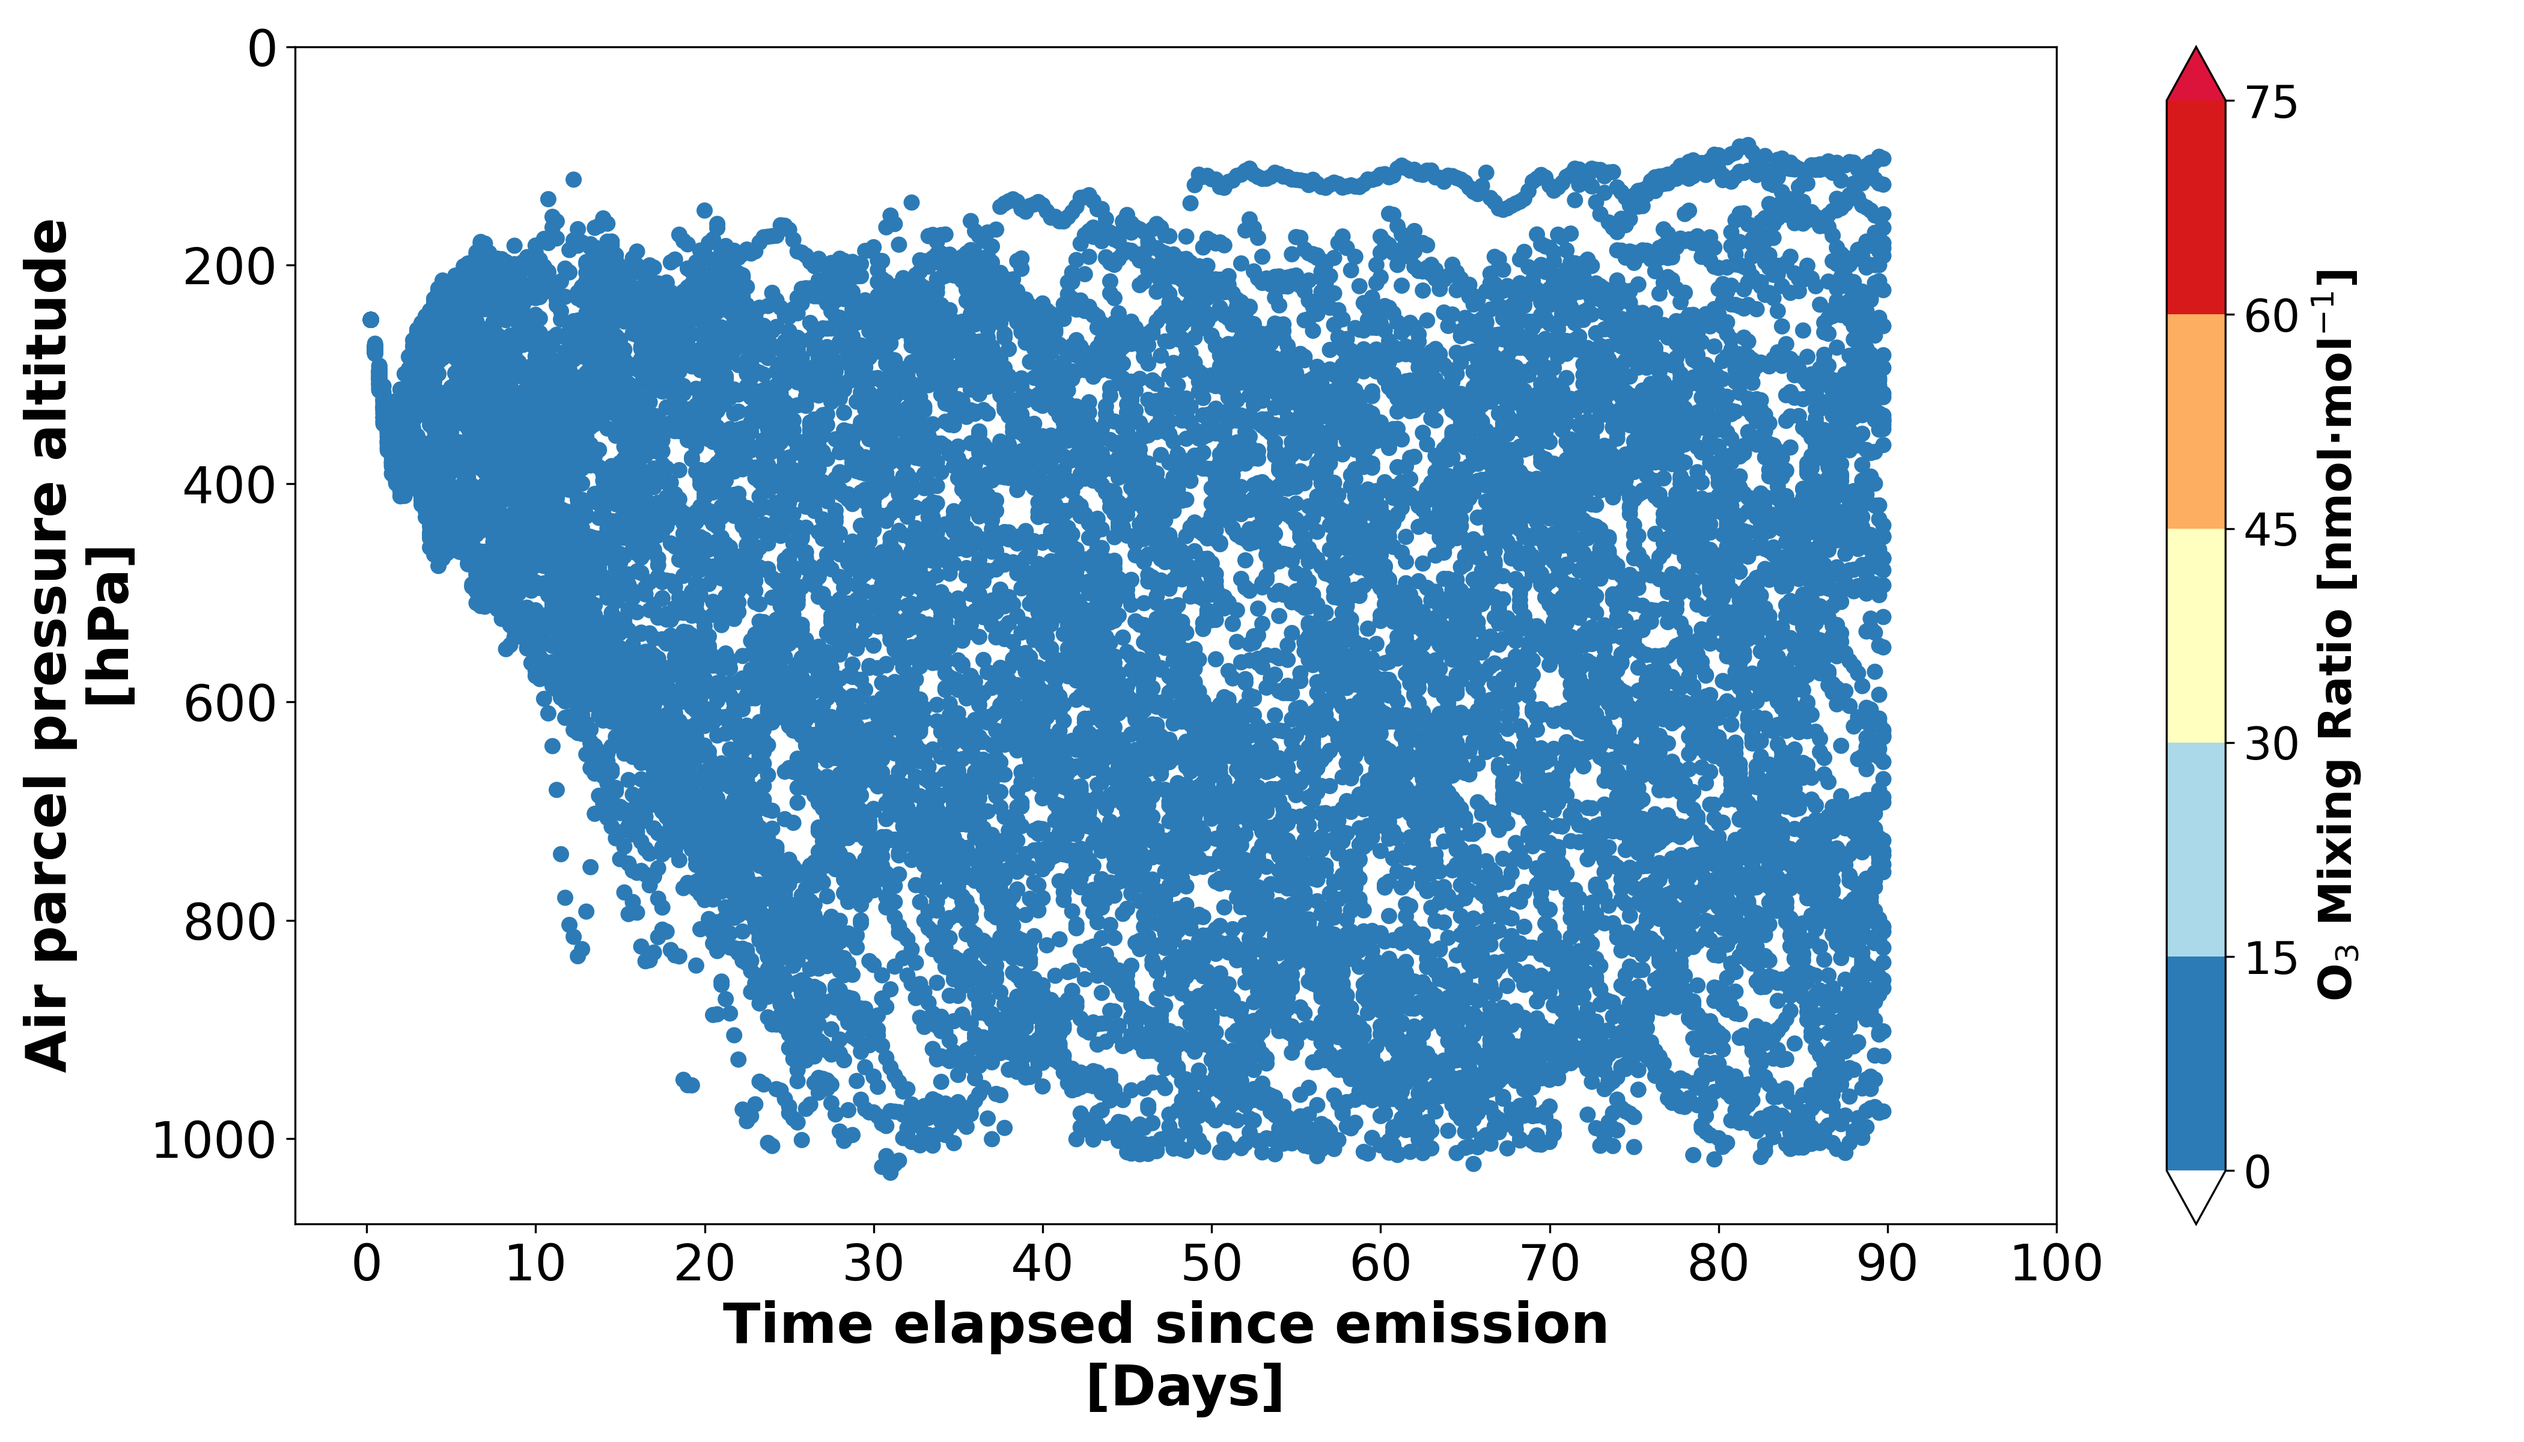
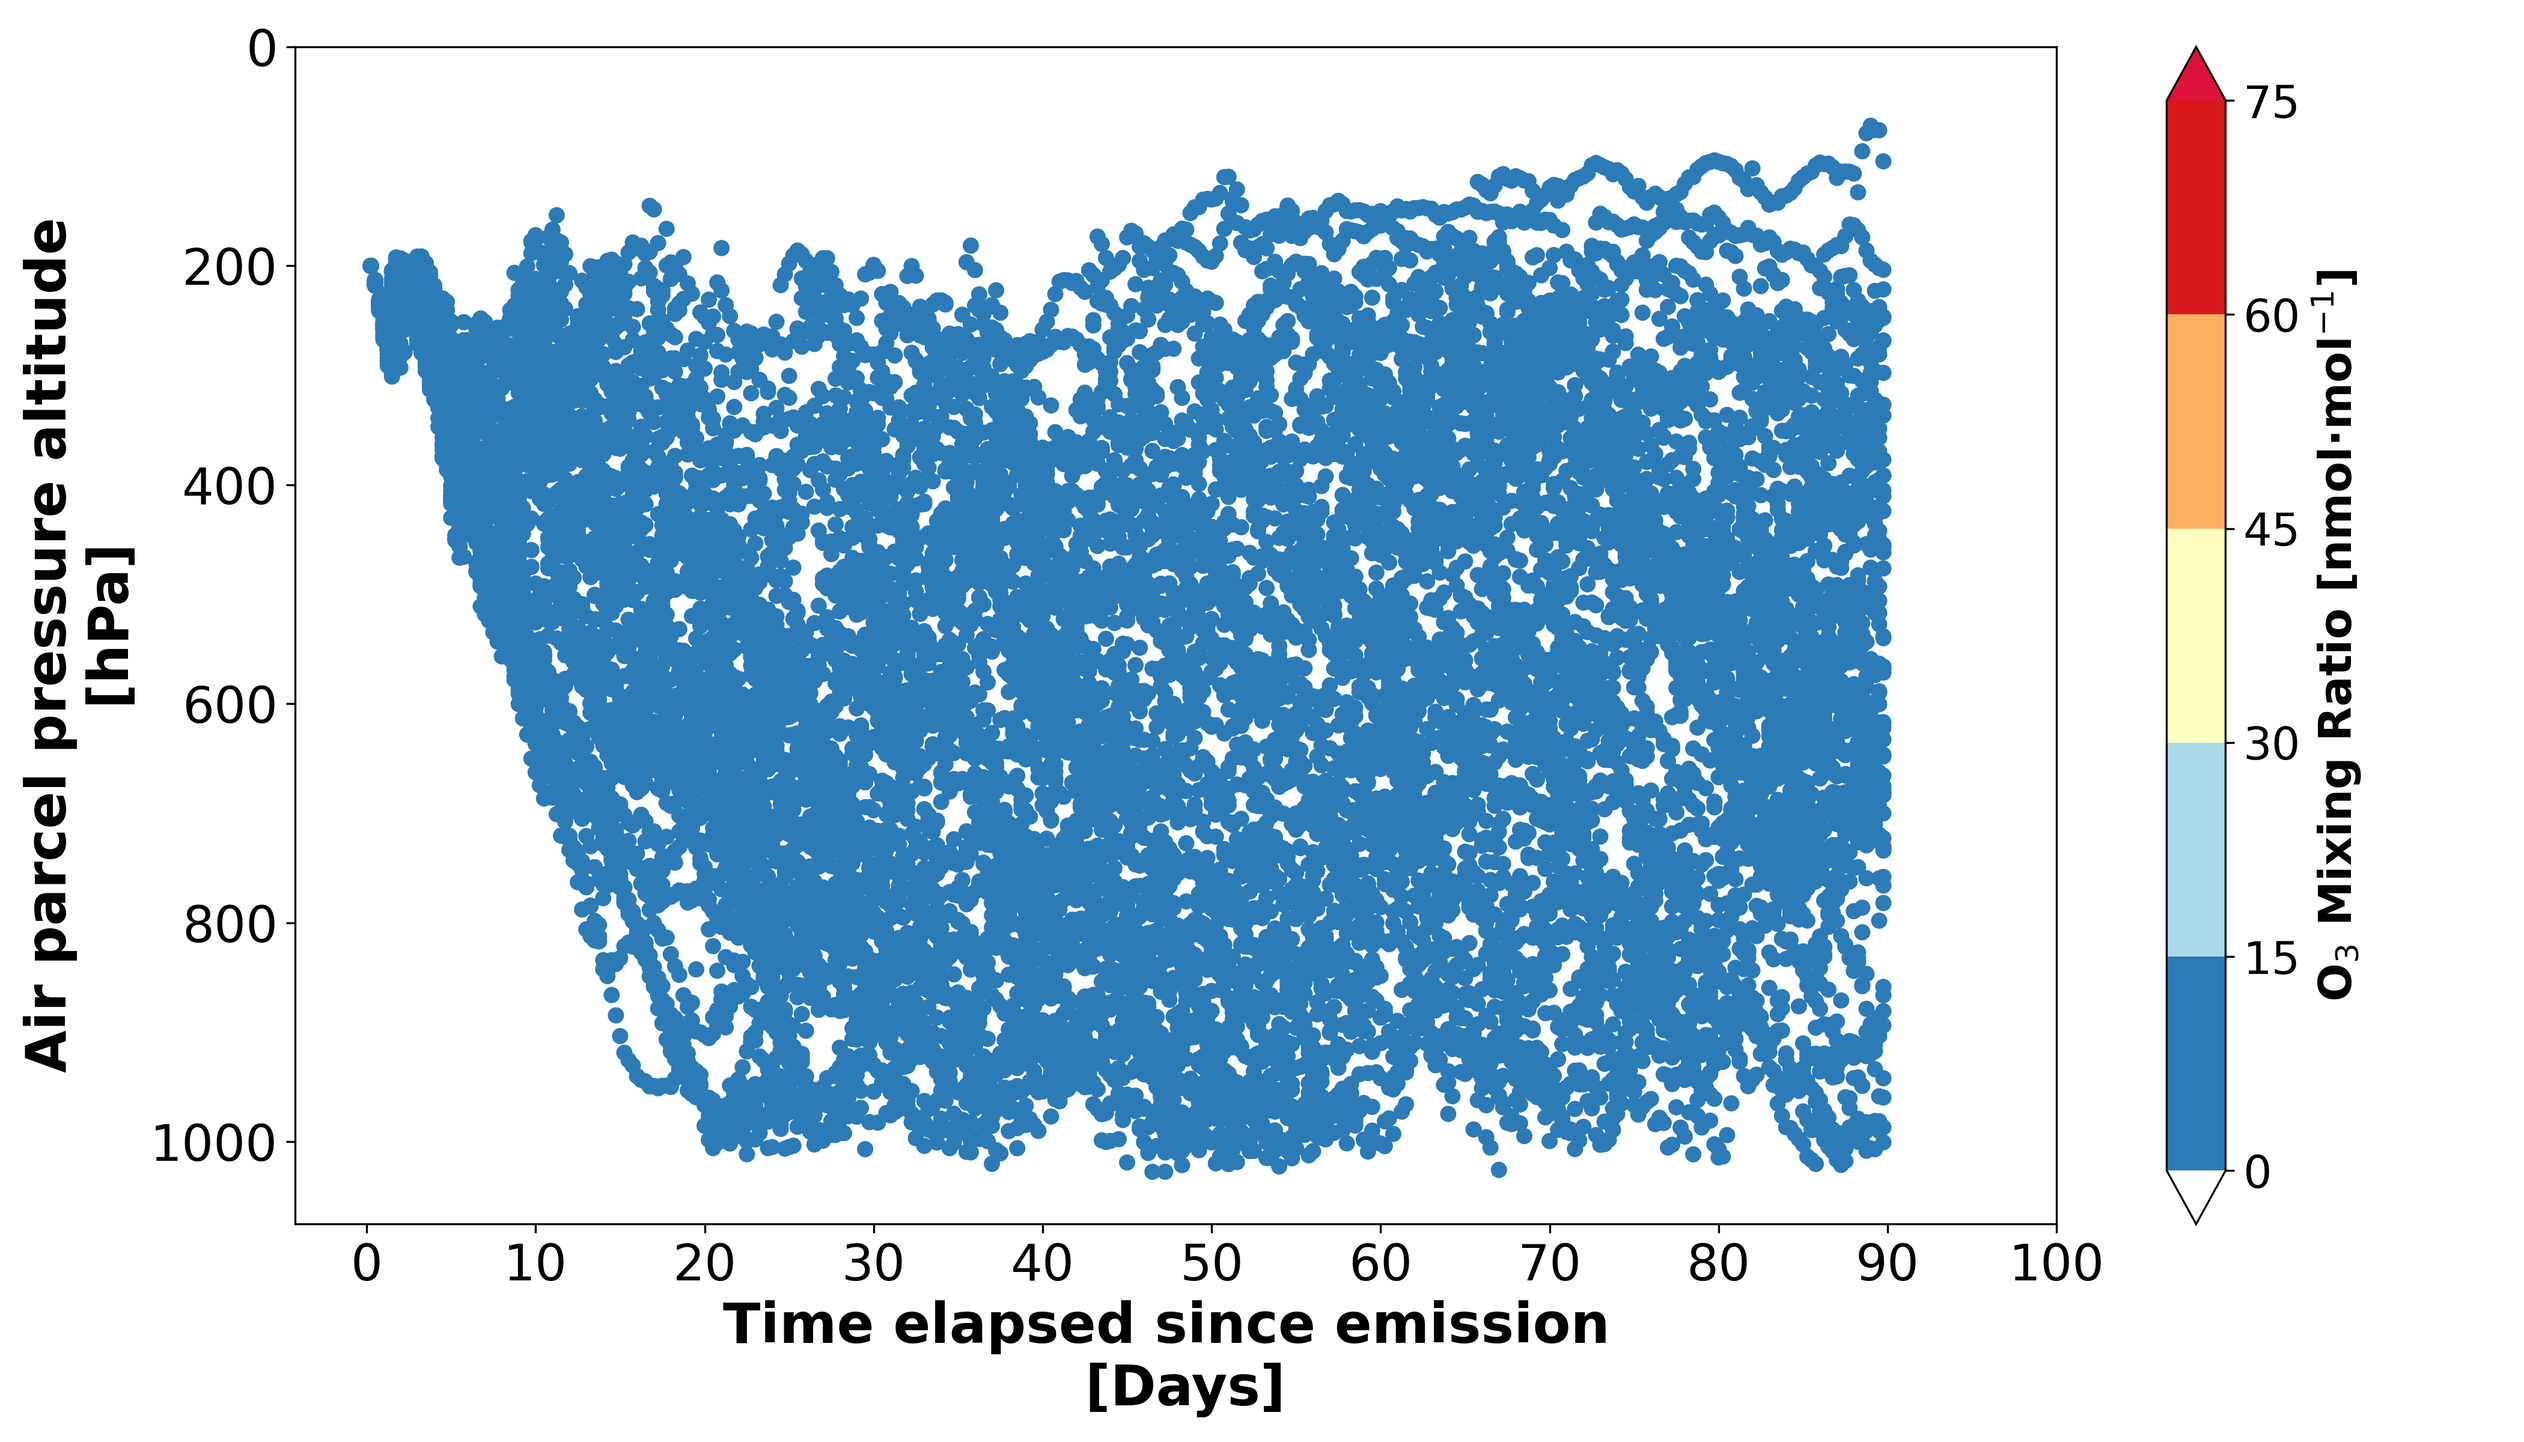
velocity 5.0

diff --git a/A04_GroupFiles_27 February, 2023 1109/Velocity.py b/A04_GroupFiles_27 February, 2023 1109/Velocity.py
@@ -25,7 +25,7 @@ from mpl_toolkits.basemap import shiftgrid  # For shifting longitudes
 import matplotlib.colors  # To create new colorbar
 import math
 
-load_data_from = str('Winter250')
+load_data_from = str('Summer300')
 
 f_string = 'C:/Users/alexm/AE2224/DATA_ANALYSIS/' + load_data_from + '/*' 
 
@@ -612,6 +612,18 @@ else:
     plt.close()
 
 
+fig, ax = plt.subplots()
+plt.scatter(RoD_arr_new_method, MR_avg_new_method_arr * 10E9, s = 8)
+# ax.set_title('RoD vs. MR[hPa/D]', fontweight = 'bold')
+ax.set_xlabel('RoD [hPa/D]', fontweight = 'bold')
+dot_multiply = '\u00B7'
+superscript_minus_one = '\u207B\u00B9'
+subscript_three = '\u2083'
+ax.set_ylabel('Mean O' + subscript_three + ' Mixing Ratio [nmol' + dot_multiply + 'mol' + superscript_minus_one + ']', fontweight = 'bold')
+plt.savefig('RoD vs MR' + load_data_from)
+plt.show()
+
+
 
 #################################################################################################################################################
 #################################################################################################################################################
@@ -712,7 +724,7 @@ if attila_switch == True and o3tracer_switch == True and activate_plot3 == True:
 
     # Scatter plot command
 
-    plot_vertical_trajectory = True
+    plot_vertical_trajectory = False
     if plot_vertical_trajectory == True: 
         for emission_points in range(1,29): 
             for parcel3 in range((emission_points - 1) * 50,emission_points * 50): 
@@ -775,7 +787,7 @@ if attila_switch == True and o3tracer_switch == True and activate_plot3 == True:
 ####################################################################################################################################################
 ####################################################################################################################################################
 
-original_plot = True 
+original_plot = False 
 
 if attila_switch == True and o3tracer_switch == True and original_plot == True:
 
